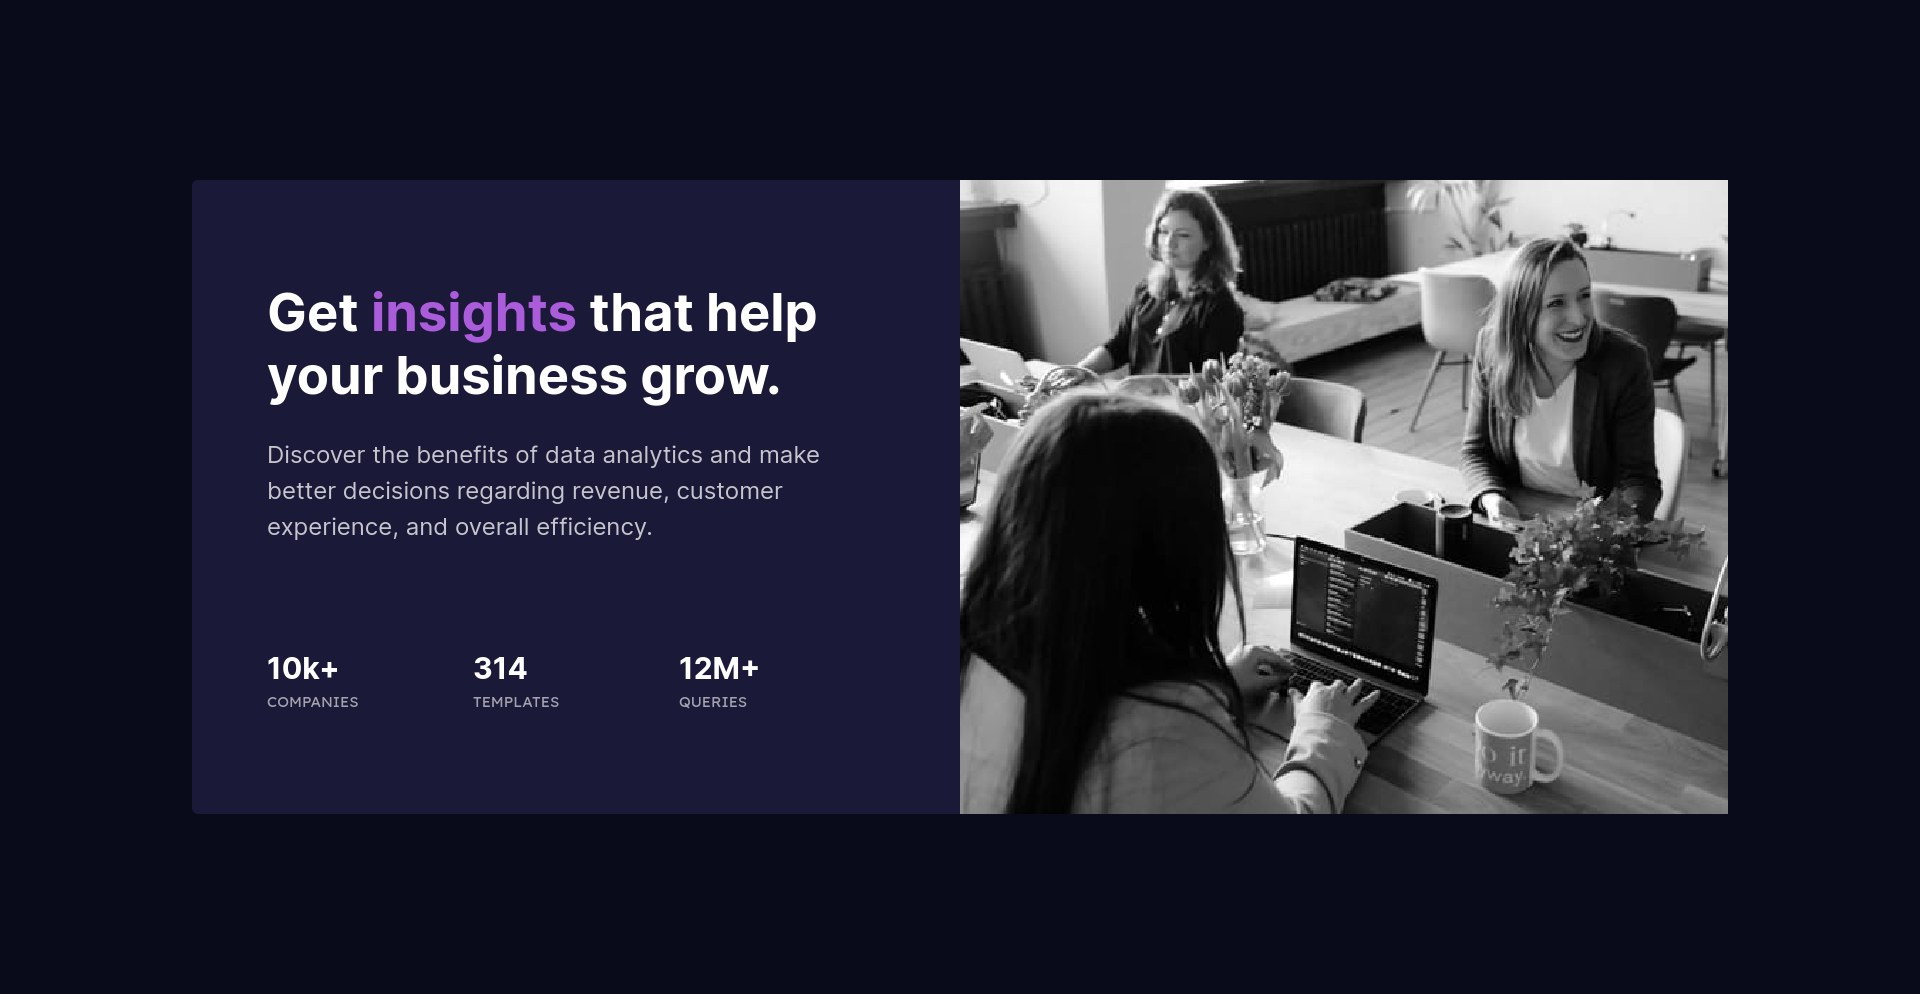
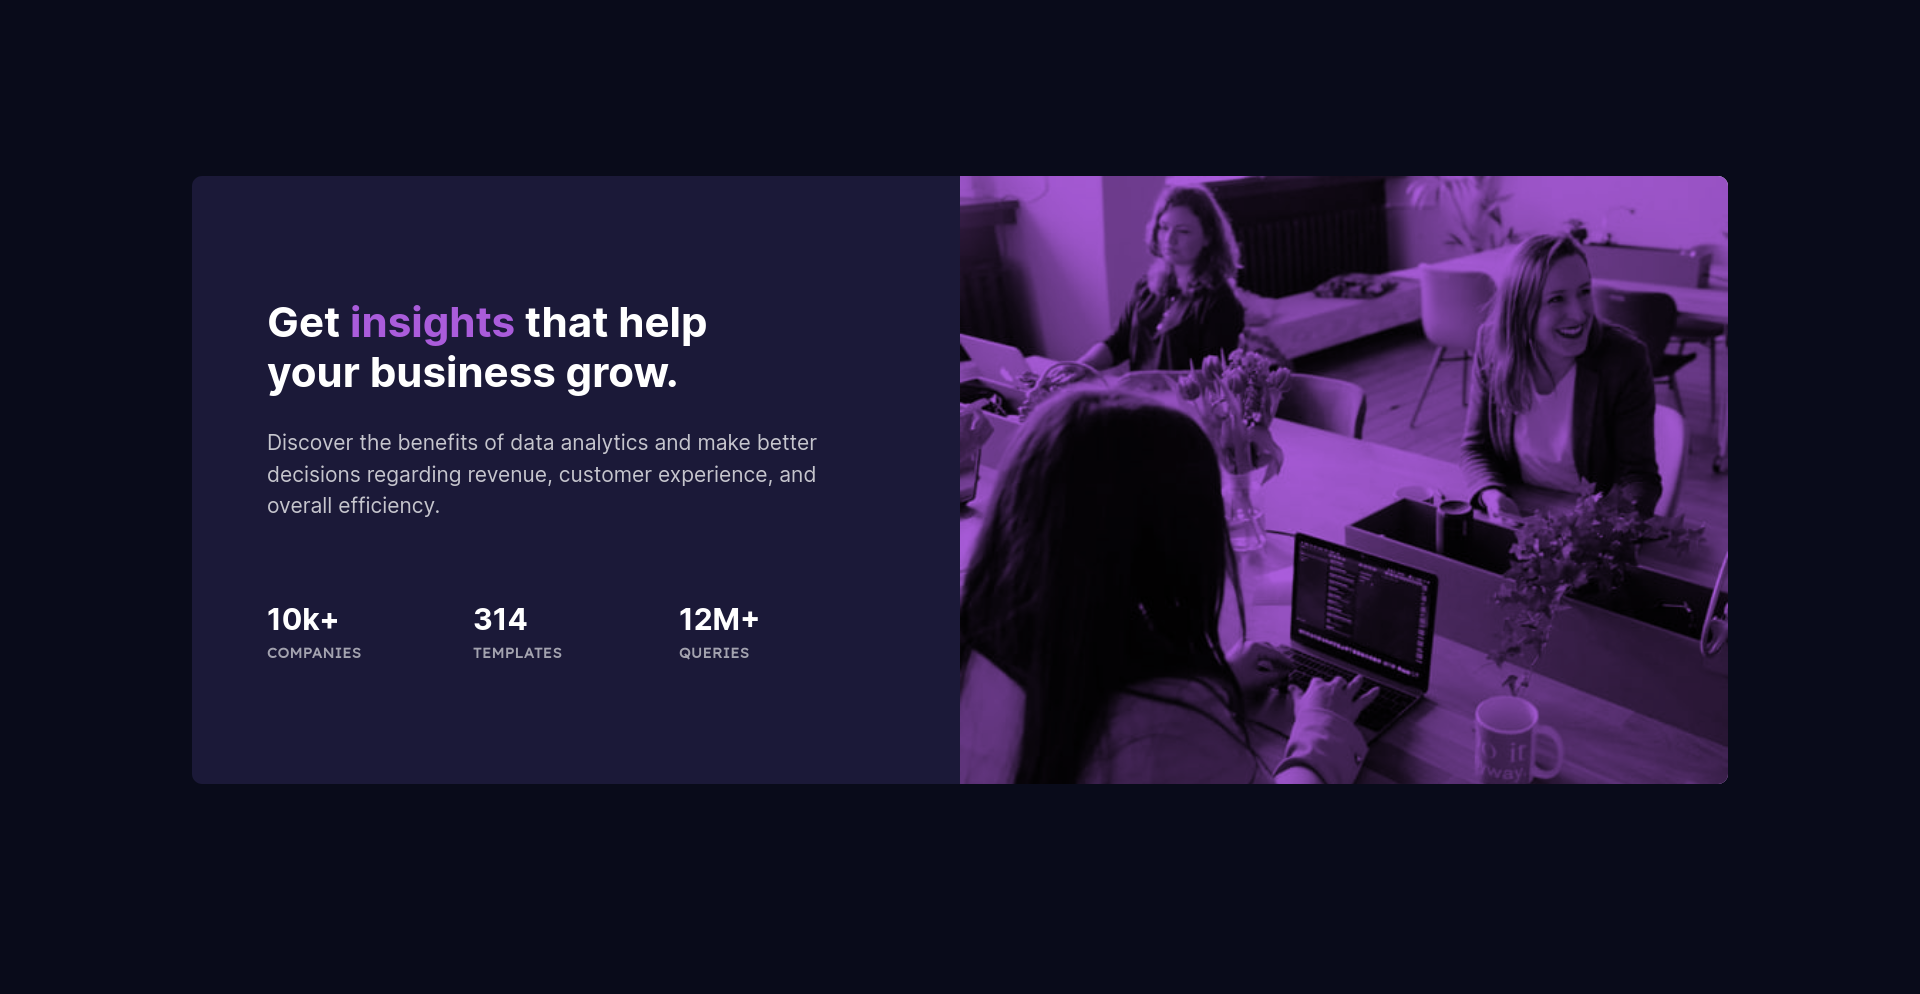
fix layout issues.

diff --git a/sass/app.scss b/sass/app.scss
@@ -13,11 +13,13 @@ body {
   line-height: 1.5;
   background-color: set-color(primary);
   color: transparentize-color(neutral, 0.25);
+  padding: 8rem 0;
 }
 
 .card {
-  border-radius: 6px;
+  border-radius: 10px;
   text-align: center;
+  overflow: hidden;
 
   @include media(desktop) {
     & {
@@ -30,19 +32,19 @@ body {
   }
 
   &__image {
-    margin-bottom: 1.5em;
     background-color: set-color(accent);
     background-image: url(../images/image-header-mobile.jpg);
     background-repeat: no-repeat;
     background-size: cover;
     background-blend-mode: multiply;
+    max-width: 768px;
+    height: 400px;
 
     @include media(desktop) {
       & {
         background-image: url(../images/image-header-desktop.jpg);
         order: 1;
         margin-bottom: 0;
-        max-width: 768px;
         height: auto;
       }
     }
@@ -50,16 +52,20 @@ body {
 
   &__block {
     background-color: set-color(secondary);
-    padding: 5rem;
+    padding: 3rem 2.5rem;
     display: flex;
     flex-direction: column;
 
     @include media(desktop) {
       & {
-        justify-content: space-evenly;
+        gap: 5rem;
         padding: 8rem 5rem;
       }
     }
+  }
+
+  &__text {
+    margin-bottom: 3rem;
   }
 
   &__title {
@@ -67,12 +73,12 @@ body {
     line-height: 1.2;
     font-weight: set-weight(bold);
     color: set-color(neutral);
-    margin-bottom: 1rem;
+    margin-bottom: 1.5rem;
 
     @include media(desktop) {
       & {
         margin-bottom: 2rem;
-        font-size: 3.5rem;
+        font-size: 2.8rem;
       }
     }
   }
@@ -82,7 +88,7 @@ body {
 
     @include media(desktop) {
       & {
-        font-size: 1.6rem;
+        font-size: 1.4rem;
       }
     }
   }
@@ -95,7 +101,7 @@ body {
     }
   }
   .stat {
-    margin-bottom: 1rem;
+    margin-bottom: 1.5rem;
 
     @include media(desktop) {
       & {

diff --git a/css/app.css b/css/app.css
@@ -29,11 +29,13 @@ body {
   line-height: 1.5;
   background-color: #090b1a;
   color: rgba(255, 255, 255, 0.75);
+  padding: 8rem 0;
 }
 
 .card {
-  border-radius: 6px;
+  border-radius: 10px;
   text-align: center;
+  overflow: hidden;
 }
 
 @media screen and (min-width: 1440px) {
@@ -47,12 +49,13 @@ body {
 }
 
 .card__image {
-  margin-bottom: 1.5em;
   background-color: #aa5cdb;
   background-image: url(../images/image-header-mobile.jpg);
   background-repeat: no-repeat;
   background-size: cover;
   background-blend-mode: multiply;
+  max-width: 768px;
+  height: 400px;
 }
 
 @media screen and (min-width: 1440px) {
@@ -62,14 +65,13 @@ body {
         -ms-flex-order: 1;
             order: 1;
     margin-bottom: 0;
-    max-width: 768px;
     height: auto;
   }
 }
 
 .card__block {
   background-color: #1b1938;
-  padding: 5rem;
+  padding: 3rem 2.5rem;
   display: -webkit-box;
   display: -ms-flexbox;
   display: flex;
@@ -81,11 +83,13 @@ body {
 
 @media screen and (min-width: 1440px) {
   .card__block {
-    -webkit-box-pack: space-evenly;
-        -ms-flex-pack: space-evenly;
-            justify-content: space-evenly;
+    gap: 5rem;
     padding: 8rem 5rem;
   }
+}
+
+.card__text {
+  margin-bottom: 3rem;
 }
 
 .card__title {
@@ -93,13 +97,13 @@ body {
   line-height: 1.2;
   font-weight: 700;
   color: white;
-  margin-bottom: 1rem;
+  margin-bottom: 1.5rem;
 }
 
 @media screen and (min-width: 1440px) {
   .card__title {
     margin-bottom: 2rem;
-    font-size: 3.5rem;
+    font-size: 2.8rem;
   }
 }
 
@@ -109,7 +113,7 @@ body {
 
 @media screen and (min-width: 1440px) {
   .card__paragraph {
-    font-size: 1.6rem;
+    font-size: 1.4rem;
   }
 }
 
@@ -121,7 +125,7 @@ body {
 }
 
 .stats .stat {
-  margin-bottom: 1rem;
+  margin-bottom: 1.5rem;
 }
 
 @media screen and (min-width: 1440px) {

diff --git a/index.html b/index.html
@@ -29,8 +29,8 @@
         <div class="card__block">
           <div class="card__text">
             <h1 class="card__title">
-              Get <span class="highlighted">insights</span> that help your
-              business grow.
+              Get <span class="highlighted">insights</span> that help <br />
+              your business grow.
             </h1>
             <p class="card__paragraph lead">
               Discover the benefits of data analytics and make better decisions
